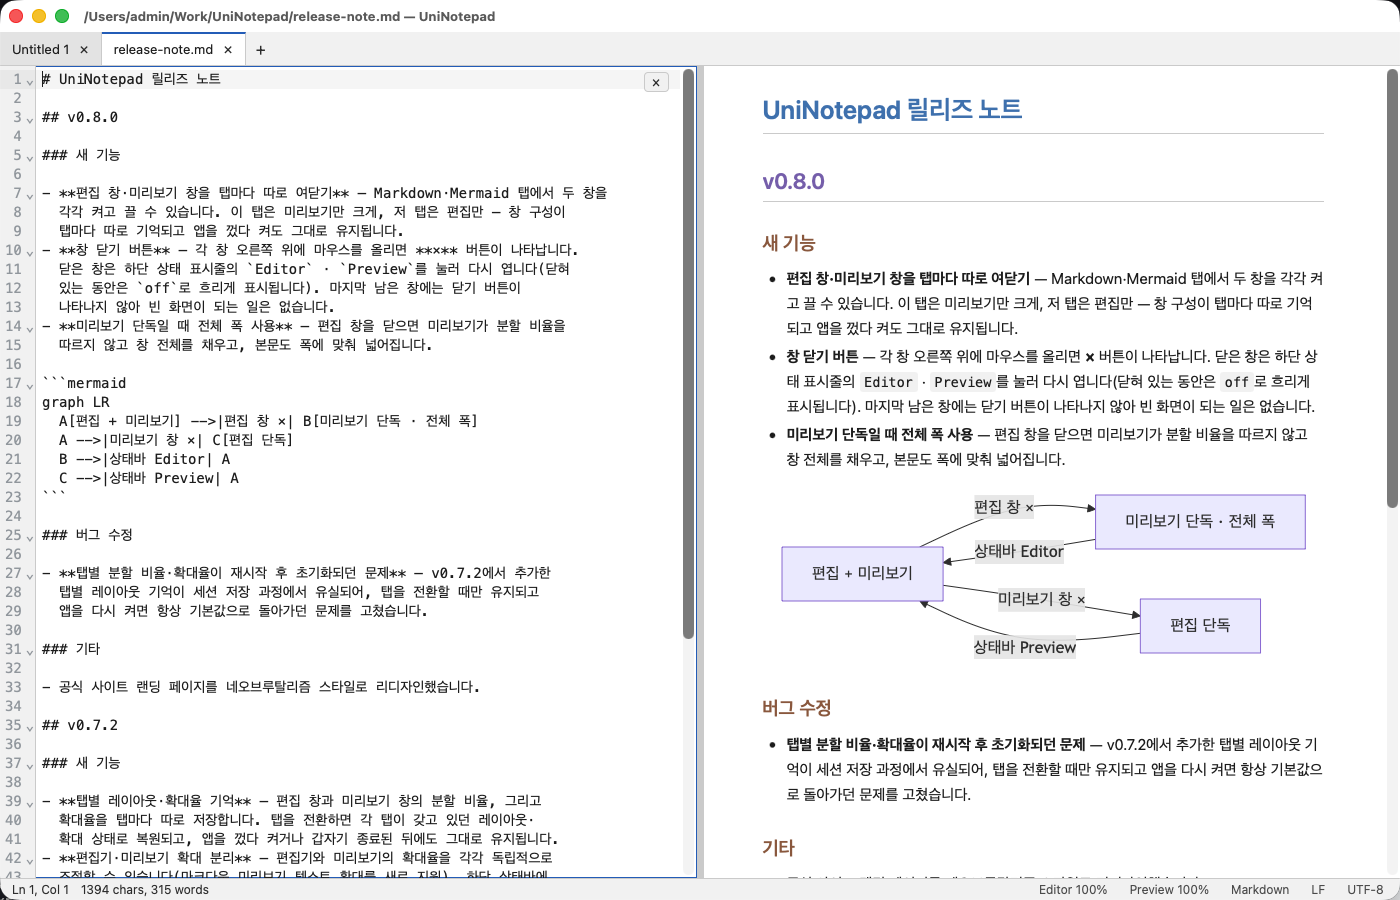
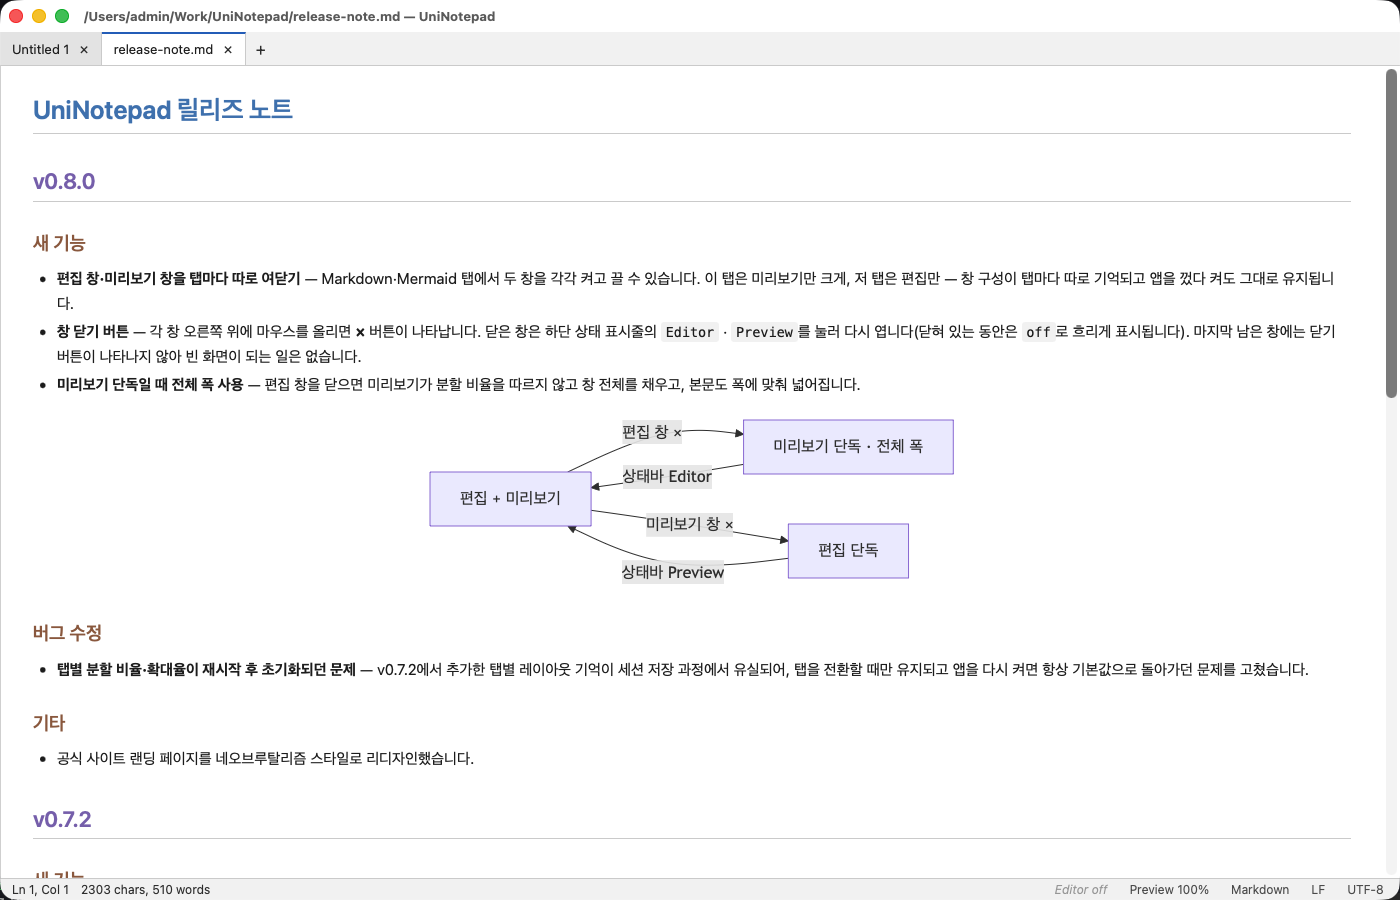
[Docs] 라이트 테마 스크린샷을 미리보기 단독 화면으로 교체
v0.8.0의 창 개별 여닫기를 스크린샷으로도 보여준다. 다크 샷은 편집·미리보기
분할 그대로 두고, 라이트 샷만 편집 창을 닫은 상태로 다시 찍었다 — 미리보기가
분할 비율을 따르지 않고 창 전체 폭을 쓰는 모습과 상태 표시줄의 `Editor off`가
한 화면에 담긴다.

- docs/·site/assets/의 syntax-markdown-light.png 교체 (1400x900 유지)
- 두 샷이 더 이상 같은 레이아웃이 아니므로 "같은 화면" 캡션을 수정하고,
  히어로·테마 섹션·figcaption·alt 텍스트에 미리보기 단독임을 명시

diff --git a/site/index.html b/site/index.html
@@ -213,11 +213,11 @@
       <div class="shot pair">
         <figure>
           <img src="/assets/syntax-markdown.png" alt="다크 테마에서 본 UniNotepad의 Markdown 분할 미리보기 화면" />
-          <figcaption><b>다크</b> 테마</figcaption>
+          <figcaption><b>다크</b> 테마 — 편집·미리보기 분할</figcaption>
         </figure>
         <figure>
-          <img src="/assets/syntax-markdown-light.png" alt="라이트 테마에서 본 UniNotepad의 Markdown 분할 미리보기 화면" />
-          <figcaption><b>라이트</b> 테마</figcaption>
+          <img src="/assets/syntax-markdown-light.png" alt="라이트 테마에서 편집 창을 닫고 미리보기만 켠 UniNotepad 화면" />
+          <figcaption><b>라이트</b> 테마 — 편집 창을 닫고 미리보기만</figcaption>
         </figure>
       </div>
     </header>

diff --git a/README.md b/README.md
@@ -16,9 +16,9 @@
 
 <p align="center">
   <a href="https://uninotepad-xi.vercel.app/"><img src="docs/syntax-markdown.png" width="400" alt="다크 테마에서 본 UniNotepad의 Markdown 분할 미리보기 화면"></a>
-  <a href="https://uninotepad-xi.vercel.app/"><img src="docs/syntax-markdown-light.png" width="400" alt="라이트 테마에서 본 UniNotepad의 Markdown 분할 미리보기 화면"></a>
+  <a href="https://uninotepad-xi.vercel.app/"><img src="docs/syntax-markdown-light.png" width="400" alt="라이트 테마에서 편집 창을 닫고 미리보기만 켠 UniNotepad 화면"></a>
 </p>
-<p align="center"><sub>같은 화면 — 왼쪽이 <b>다크</b>, 오른쪽이 <b>라이트</b> 테마입니다.</sub></p>
+<p align="center"><sub>같은 문서 — 왼쪽은 <b>다크</b> 테마의 편집·미리보기 분할, 오른쪽은 <b>라이트</b> 테마에서 <b>편집 창을 닫고 미리보기만</b> 켠 모습입니다.</sub></p>
 
 메모장에 뭔가 적어두고 저장하는 걸 깜빡한 채 창을 닫아본 적 있으신가요?
 아니면 컴퓨터가 갑자기 꺼져서 쓰던 내용이 날아간 적은요?
@@ -102,8 +102,8 @@ UniNotepad에서는 그런 일이 생기지 않습니다. 열어둔 탭은 **저
 
 | |
 |:--|
-| [![라이트 테마와 다크 테마의 Markdown 미리보기 비교](docs/syntax-markdown-light.png)](https://uninotepad-xi.vercel.app/) |
-| 라이트 테마 — 맨 위 화면과 같은 문서를 밝은 테마로 본 모습입니다 |
+| [![라이트 테마에서 편집 창을 닫고 미리보기만 켠 화면](docs/syntax-markdown-light.png)](https://uninotepad-xi.vercel.app/) |
+| 라이트 테마 — 맨 위와 같은 문서를 밝은 테마로 본 모습입니다. 여기서는 **편집 창을 닫아** 미리보기가 창 전체 폭을 쓰고 있습니다 (상태 표시줄의 `Editor`가 `off`) |
 
 | 하고 싶은 것 | 방법 |
 |:--|:--|
